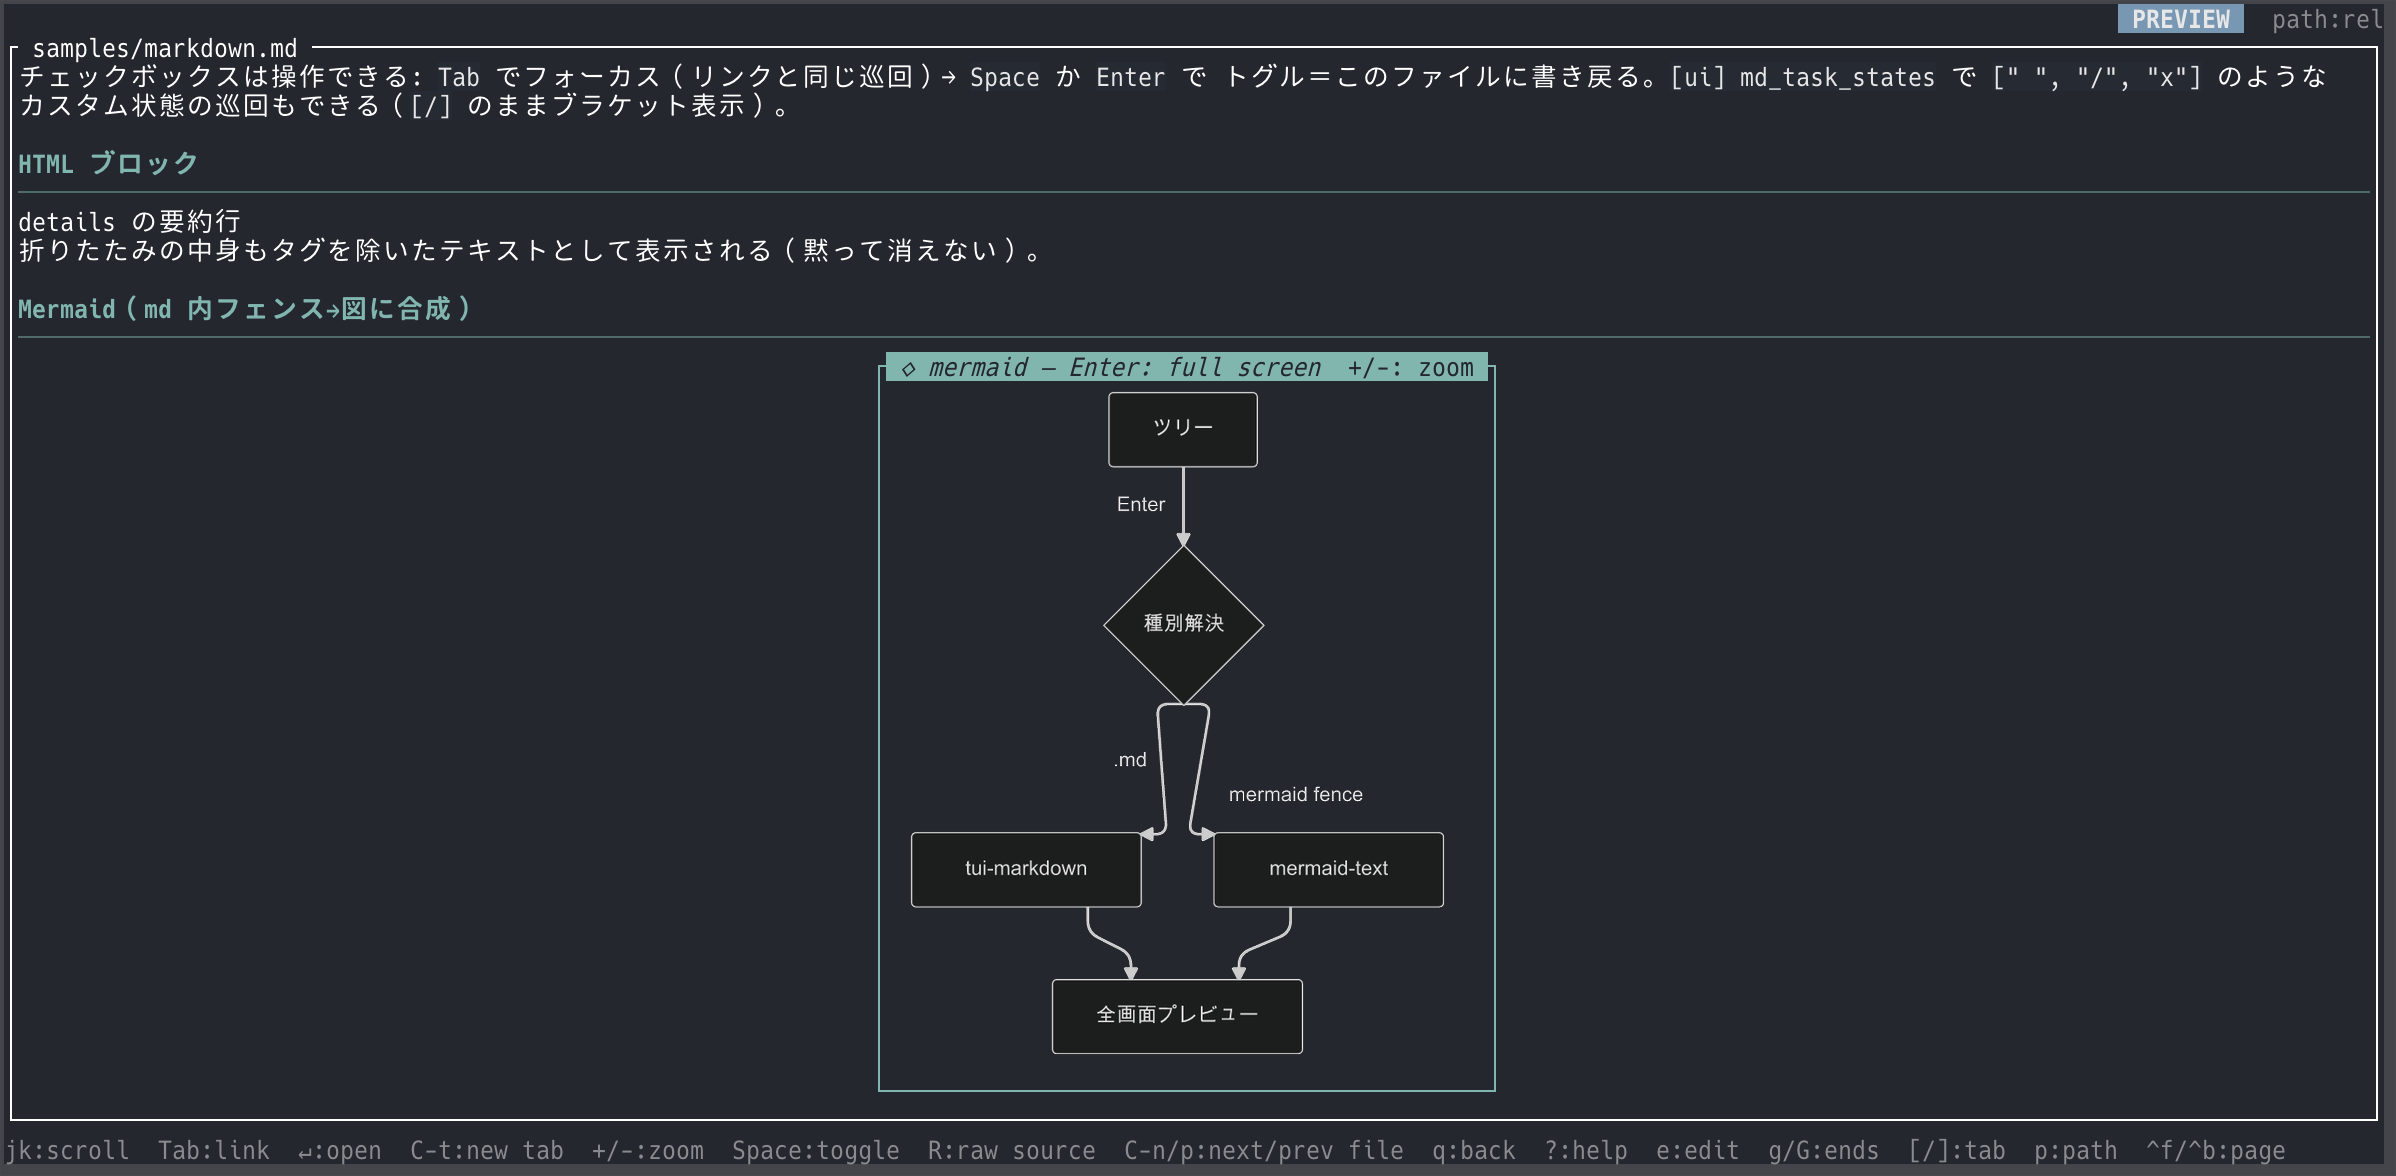
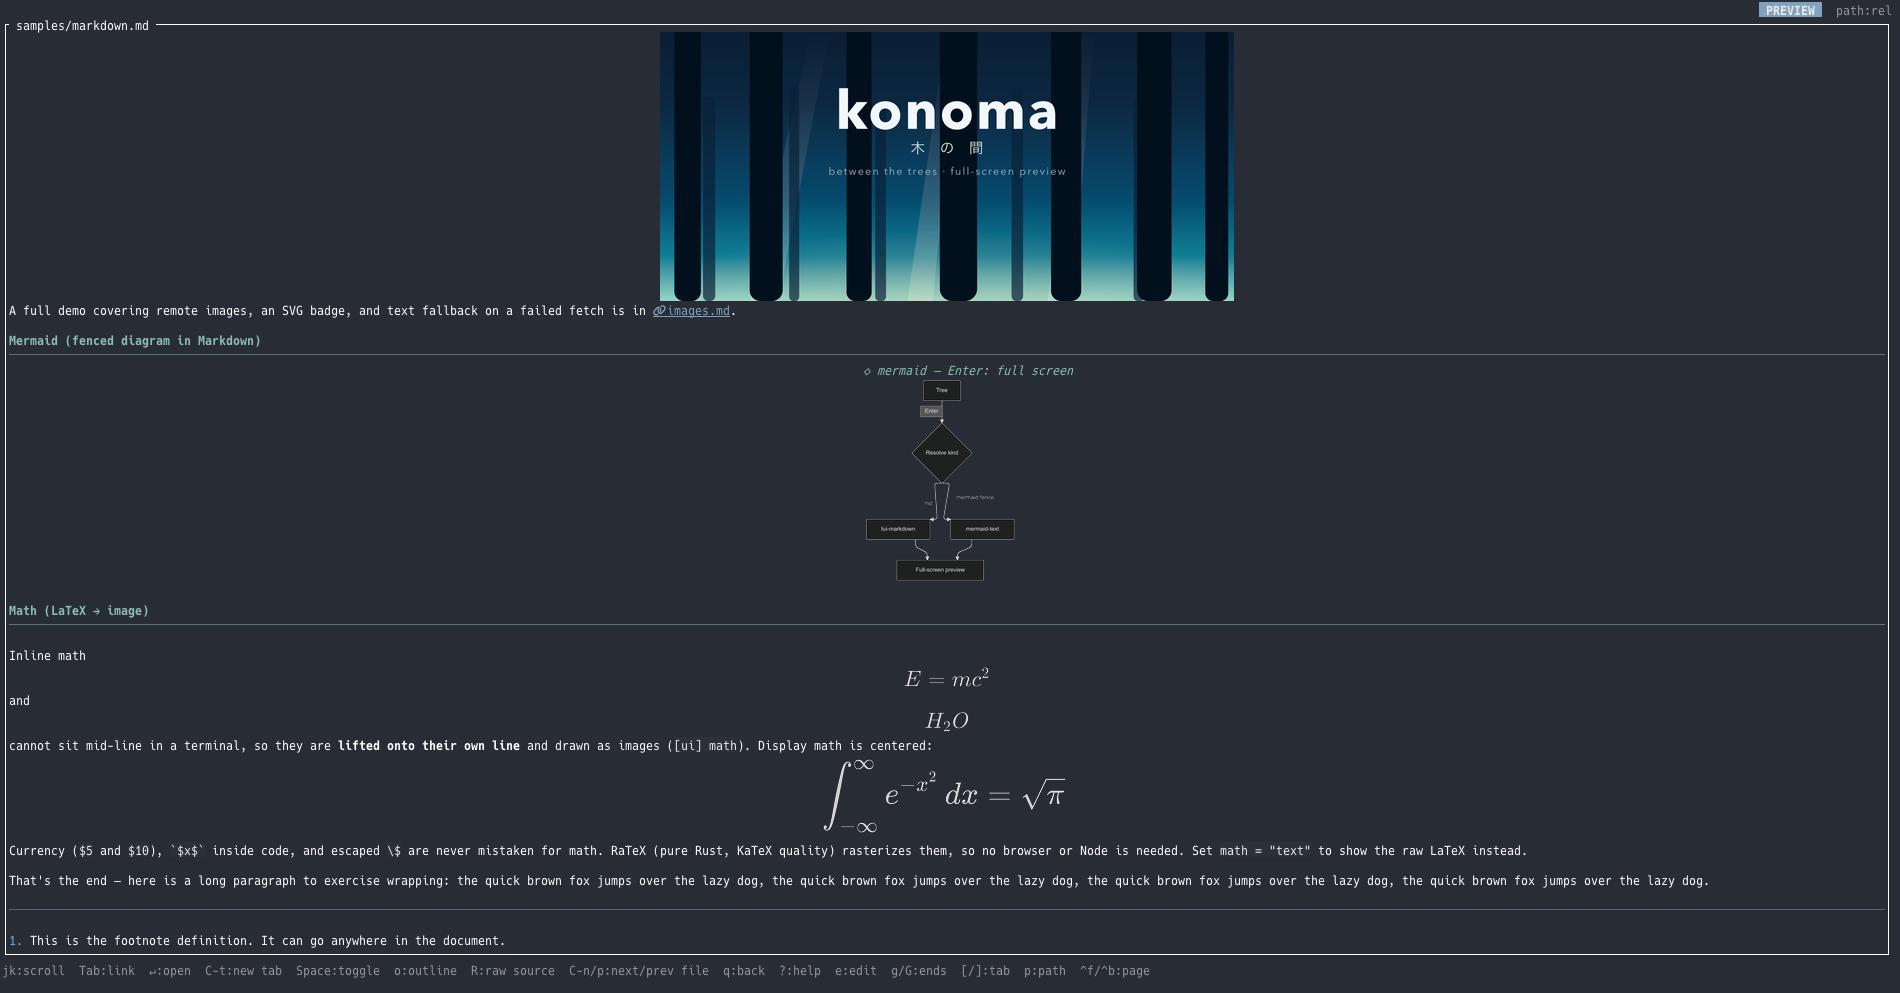
docs: English Markdown screenshots + add feature shots
The Markdown screenshot in the README and docs site was captured from the
Japanese sample (Japanese body text and Mermaid node labels). Now that the
bundled samples are English by default, re-shoot it in English and add two
more so the expanded Markdown rendering is on show:

- markdown.png (replaced, English): inline images, a Mermaid diagram, and
  LaTeX math rendered in the preview.
- markdown-richtext.png (new): headings, tables, syntax-highlighted code, and
  interactive task lists.
- markdown-alerts.png (new): GitHub-style alerts, autolinks, emoji, footnotes,
  and inline HTML.

README Screenshots section and the docs-site landing pages (en + ja) reference
all three; site images live in site/src/assets/ for Astro's optimizer.

diff --git a/README.md b/README.md
@@ -46,9 +46,19 @@ in-between split view.
 </table>
 
 <p align="center">
-  <img src="https://raw.githubusercontent.com/LESIM-Co-Ltd/konoma/main/assets/markdown.png" alt="Markdown and Mermaid rendering" width="860">
+  <img src="https://raw.githubusercontent.com/LESIM-Co-Ltd/konoma/main/assets/markdown.png" alt="Inline images, a Mermaid diagram, and LaTeX math rendered in a Markdown preview" width="860">
 </p>
-<p align="center"><b>Markdown &amp; Mermaid</b></p>
+<p align="center"><b>Markdown</b> — inline images, Mermaid diagrams, and LaTeX math, rendered right in the preview</p>
+
+<p align="center">
+  <img src="https://raw.githubusercontent.com/LESIM-Co-Ltd/konoma/main/assets/markdown-richtext.png" alt="Headings, tables, syntax-highlighted code, and interactive task lists in a Markdown preview" width="860">
+</p>
+<p align="center"><b>Rich text</b> — headings, tables, syntax-highlighted code, and interactive task lists</p>
+
+<p align="center">
+  <img src="https://raw.githubusercontent.com/LESIM-Co-Ltd/konoma/main/assets/markdown-alerts.png" alt="GitHub-style alerts, autolinks, emoji, footnotes, and inline HTML in a Markdown preview" width="860">
+</p>
+<p align="center"><b>GitHub-flavored</b> — alerts, autolinks, emoji, footnotes, and inline HTML</p>
 
 ## Features
 